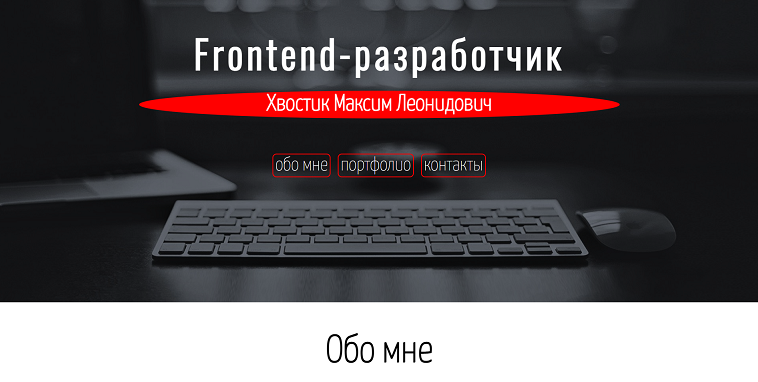
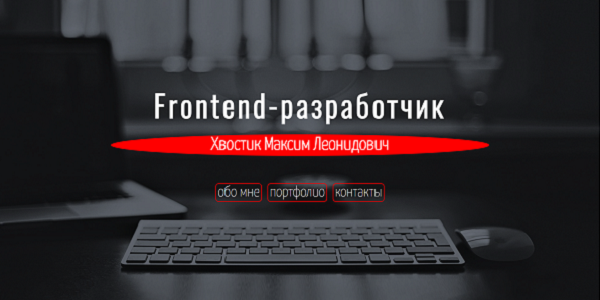
3 block

diff --git a/style.css b/style.css
@@ -1,5 +1,3 @@
-@import url('https://fonts.googleapis.com/css2?family=Caveat&family=Lobster&family=Roboto+Condensed&family=Yanone+Kaffeesatz:wght@200&display=swap');
-@import url('https://fonts.googleapis.com/css2?family=Caveat&family=Lobster&family=Oswald:wght@300&family=Roboto+Condensed&family=Yanone+Kaffeesatz:wght@200&display=swap');
 @import url('https://fonts.googleapis.com/css2?family=Caveat&family=Lobster&family=Oswald:wght@300&family=Roboto+Condensed&family=Yanone+Kaffeesatz:wght@200&display=swap');
 
 *
@@ -10,7 +8,6 @@
 
 
 /*-----------------------------Блок_1---------------------------------------*/
-
 
 /*---------header_img-----------------*/
 
@@ -46,7 +43,6 @@
 	left: 0;
 }
 
-
 /*----------------header_block-------------------*/
 
 .header_block{
@@ -72,7 +68,7 @@
 	color: white;
 	font-size: 5vw;
 	padding-bottom: 2%;
-	font-family: 'Yanone Kaffeesatz', sans-serif;
+	font-family: 'Oswald', sans-serif;
 }
 
 .name_title{
@@ -109,7 +105,6 @@
 
 /*-----------------------------Блок_2---------------------------------------*/
 
-
 /*---------about_me-----------------*/
 
 .information{
@@ -120,6 +115,7 @@
 .h3_about_me{
 	color: black;
 	padding-top: 5%;
+	font-family: 'Caveat', cursive;
 }
 
 .p_about_me {
@@ -139,9 +135,8 @@
 }
 
 .h4_about_me{
-	color: white;
-	font-size: 3vw;
-	padding-top: 3%;
+	color: #FAFAFAFF;
+	margin-bottom: 4%;
 }
 
 .about_me_ul{
@@ -160,10 +155,6 @@
   transition: 0.3s;
   background-image: url(images/cosmos.jpg);
   border-radius: 10px;
-}
-
-.about_me_ul>li:hover {
-  box-shadow: 40px 40px 50px 0 rgb(255,255,255);
 }
 
 .about_me_ul>li>img{
@@ -193,23 +184,31 @@
 
 /*-----------------------------Блок_3---------------------------------------*/
 
-
 /*---------may_project-----------------*/
 
+/*--Фон_бегущий--*/
 
-.may_project{
-	
+.may_project {
+  background: url(images/fon_4.png); /* Путь к картинке */
+  background-position: 0 0;
+  background-repeat: repeat;
+  animation: animated-bg 60s linear infinite;
+  width: 100%;
+  height: 100vh;
 }
+@keyframes animated-bg {
+  from { background-position: 0 0; }
+  to { background-position: 0 1000px; }
+}
+/*-------------*/
 
+/*-------Стили_блоков-------------------*/
 
 .may_project_title{
 	color: black;
-	margin: 80px 0 40px 0;
+	padding-top: 4%;
 }
-.may_project_list{
 
-
-}
 .may_project_ul{
 	display: flex;
   flex-wrap: wrap;
@@ -218,42 +217,88 @@
 
 .may_project_ul>li{
 	list-style-type: none;
-	margin: 10px;
-
+	margin: 2%;
 }
 
-.may_project_img>img{
-	max-width: 600px;
+.may_project_container {
+  position: relative;
+  height: 300px;
+  width: 600px;
+  overflow: hidden;
+  box-shadow: 28px 30px 20px rgb(0 0 0 / 40%);
+  transition: box-shadow 0.3s ease-out;
+}
 
+.may_project_container:hover {
+  box-shadow: 1px 2px 10px rgba(0,0,0,0.5);
+}
 
+.may_project_container_img {
+  background-color: #000;
+  position: absolute;
+  left: 0;
+  top: 0;
+  height: 100%;
+  width: 100%;
+  transition: transform 0.3s ease-out;
+  z-index: 2;
+}
+
+.may_project_container_img:hover {
+  cursor: pointer;
+}
+
+.may_project_container:hover .may_project_container_img {
+  transform: translateY(-100px);
+}
+
+.may_project_container_img > img {
+  height: 100%;
+  width: 100%;
+  transition: opacity 0.3s ease-out;
+}
+
+.may_project_container:hover > .may_project_container_img > img {
+  opacity: 0.5;
+}
+
+.user-info {
+  position: absolute;
+  bottom: 0;
+  left: 0;
+  background-color: #FFF;
+  height: 100px;
+  width: 100%;
+  box-sizing: border-box;
+  padding: 10px;
+  text-align: center
+}
+
+.user-info > h2 {
+  padding: 0;
+  margin: 10px 0;
+  font-family: 'Lobster', cursive;
+}
+
+.user-info > span > a {
+  color: #262626;
+  font-size: 20px;
+  text-decoration: none;
+  font-family: 'Caveat', cursive;
+}
+.user-info > span > a:hover{
+	color: red;
 }
 
 
 
 
-
-
-
-
-
-
-
-
-
-
-
-
-
-
-
+/*---------------------@media_screen_and_(max-width: 800px)----------------------*/
 
 @media screen and (max-width: 800px){
 
 
-/*-----------------------------Блок_2---------------------------------------*/
-
-
-/*---------about_me-----------------*/
+/*---------------------Блок_2----------------------*/
 
 .about_me_ul>li{	
 	padding: 5px; 
@@ -275,15 +320,12 @@
 	padding: 11%;
 }
 
-/*-----------------------------Блок_3---------------------------------------*/
 
+/*------------------Блок_3------------------------*/
 
-/*---------may_project-----------------*/
-
-
-.may_project_img>img{
-	max-width: 300px;
-	margin: 5px;
+.may_project_container {
+	width: 300px;
+	height: 150px;
 }
 
 }

diff --git a/index.html b/index.html
@@ -17,19 +17,20 @@
 				<h2 class="intro_title name_title">Хвостик Максим Леонидович</h2>
 			</div>
 			<div class="intro_title batton_title">
-				<a class="a_title" href="#">обо мне</a>
-				<a class="a_title" href="#">портфолио</a>
-				<a class="a_title" href="#">контакты</a>
+				<a class="a_title" href="#me">Обо мне</a>
+				<a class="a_title" href="#skills">Мои навыки</a>
+				<a class="a_title" href="#project">Мои работы</a>
+				<a class="a_title" href="">Контакты</a>
 			</div>
 		</div>	
 	</div>
-	<div class="about_me">
+	<div class="about_me" id="me">
 		<div class="information">
 			<h3 class="h3_about_me intro_title">Обо мне</h3>
 			<p class="p_about_me intro_title"> Здравствуйте, я являюсь начинающим веб-разработчиком, который прошёл переквалификацию в Национально исследовательском университете ИТМО по специальности веб-разработчик.</p>
 		</div>
-		<div class="about_me_skills">
-			<h4 class="intro_title h4_about_me">С чем научили работать при обучении</h4>
+		<div class="about_me_skills" id="skills">
+			<h4 class="intro_title h4_about_me">Мои навыки</h4>
 			<ul class="about_me_ul">
 				<li>
 					<img class="about_me_img" src="images/html.png" alt="">
@@ -89,38 +90,43 @@
 			</ul>	
 		</div>	
 	</div>
-	<div class="may_project">
+	<div class="may_project" id="project">
 		<div>
 			<h4 class="intro_title may_project_title">Мои работы</h4>
 		</div>
 		<div class="may_project_list">
 			<ul class="may_project_ul">
 				<li>
-					<div class="may_project_img">
-						<img src="images/layout_1.jpg" alt="Работа_1">	
-					</div>
-					<div class="may_project_text">
-						<h5>сайт</h5>
-						<p>Перейти по ссылке</p>	
+					<div class="may_project_container">
+						<div class="may_project_container_img">
+						    <img src="images/layout_1.jpg" alt="">
+						</div>
+						<div class="user-info">
+						    <h2>Портфолио</h2>
+						    <span><a href="">Посмотреть на gitlub</a></span>
+						</div>
 					</div>
 				</li>
 				<li>
-					<div class="may_project_img">
-						<img src="images/layout_2.jpg" alt="Работа_2">	
+					<div class="may_project_container">
+						<div class="may_project_container_img">
+						    <img src="images/layout_2.jpg" alt="">
+						</div>
+						<div class="user-info">
+						    <h2>Дипломная работа</h2>
+						    <span><a href="">Посмотреть на gitlub</a></span>
+						</div>
 					</div>
-					<div class="may_project_text">
-						<h5>сайт</h5>
-						<p>Перейти по ссылке</p>	
-					</div>
-				</li>
-
+				</li> 
 				<li>
-					<div class="may_project_img">
-						<img src="images/layout_3.jpg" alt="Работа_3">	
-					</div>
-					<div class="may_project_text">
-						<h5>сайт</h5>
-						<p>Перейти по ссылке</p>	
+					<div class="may_project_container">
+						<div class="may_project_container_img">
+						    <img src="images/layout_3.jpg" alt="">
+						</div>
+						<div class="user-info">
+						    <h2>Самостоятельная работа</h2>
+						    <span><a href="">Посмотреть на gitlub</a></span>
+						</div>
 					</div>
 				</li>
 			</ul>
